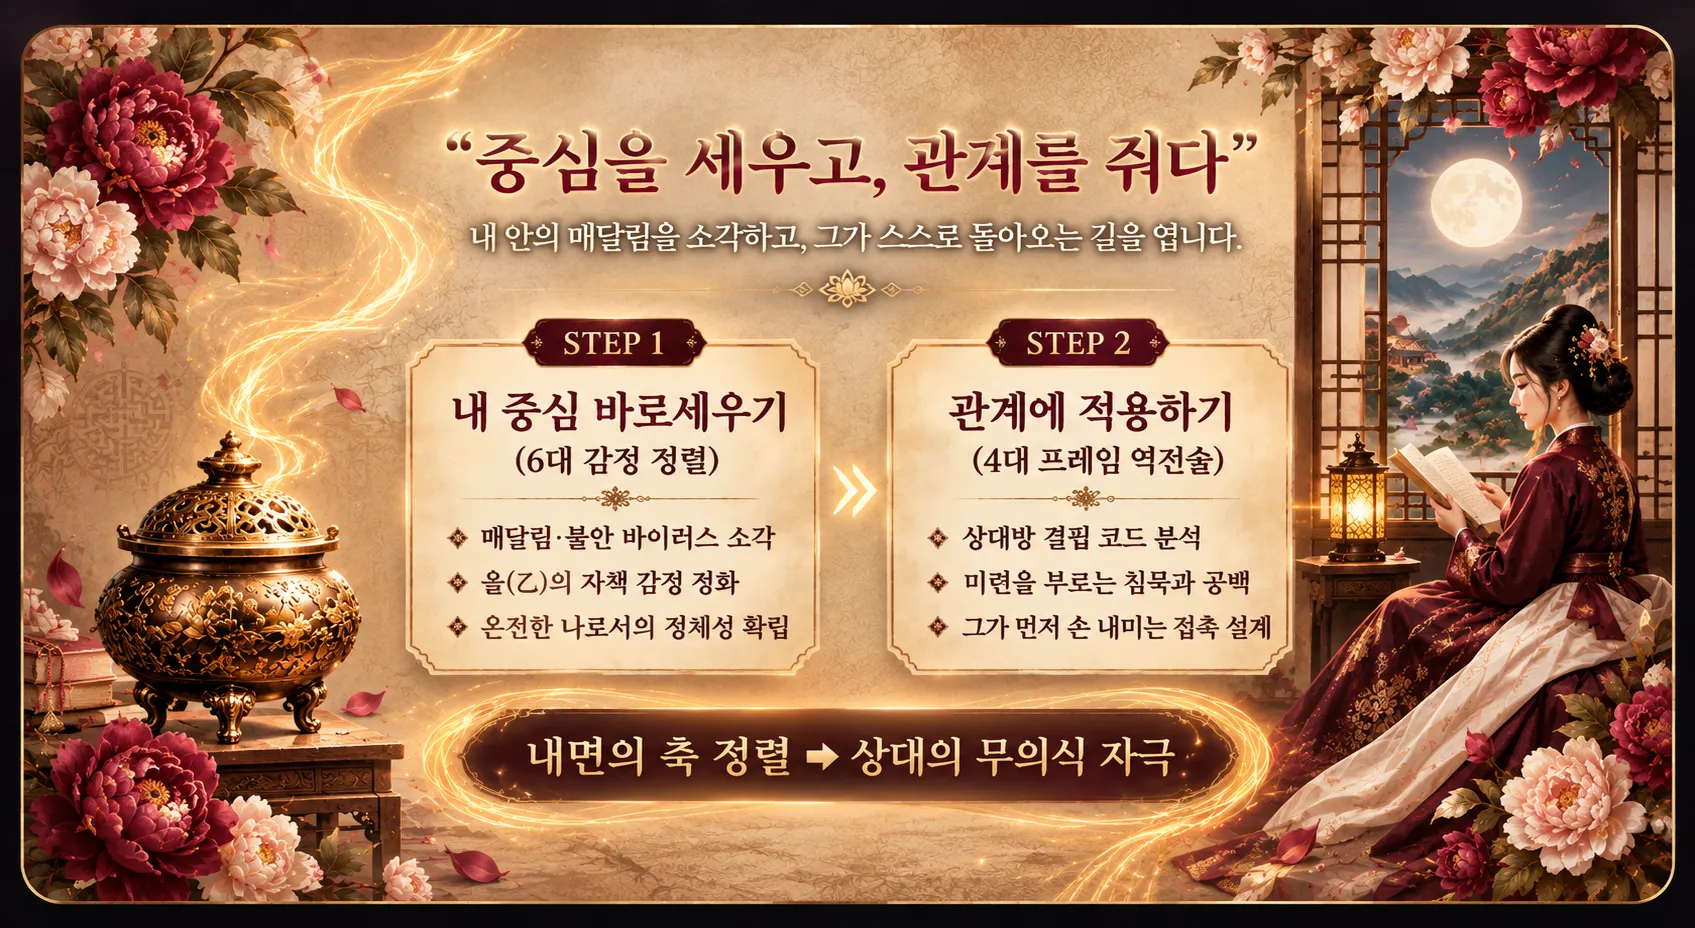
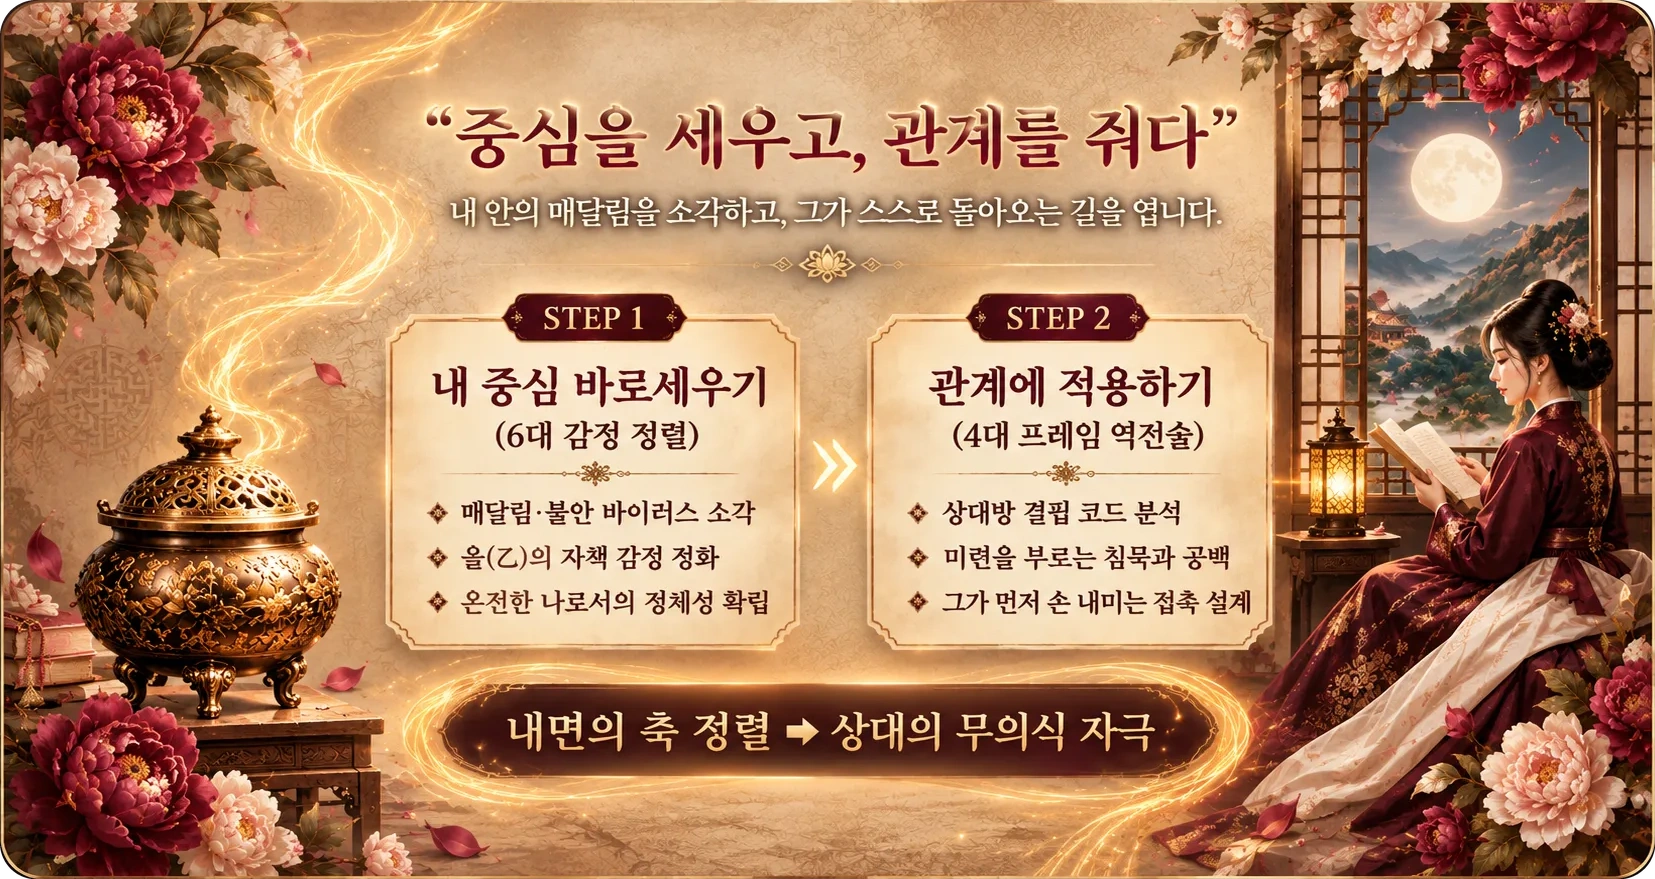
feat(reunion-secret): move inside book preview above package detail and set 3-column layout

diff --git a/app/reports/reunion-secret/page.tsx b/app/reports/reunion-secret/page.tsx
@@ -65,7 +65,7 @@ const productData = {
   ctaImage: '/image/reunion-secret/return-secret-cta-bg.webp?v=20261109_v2',
 
   // 💡 [커리큘럼 & 아키텍처] 16:9 와이드 인포그래픽 이미지 경로
-  curriculumImage: '/image/reunion-secret/reunion-secret-two-step-transformation.webp',
+  curriculumImage: '/image/reunion-secret/reunion-secret-two-step-transformation.webp?v=20261109_transparent',
   // 💡 [패키지 구성] 16:9 와이드 3종 책 목업 이미지 경로
   packageImage: '/image/reunion-secret/reunion-package-3books.webp',
   // 💡 [신규 영역 1] 관계 역전의 법칙 (16:9 인포그래픽 다이어그램 이미지 경로)
@@ -1729,13 +1729,13 @@ export default function ReunionSecretPage() {
                     </p>
                   </div>
 
-                  {/* 16:9 와이드 인포그래픽 이미지 영역 (뒤의 네모 상자/테두리/그림자 삭제, 이미지만 단독 노출) */}
+                  {/* 16:9 와이드 인포그래픽 이미지 영역 (바깥 검은 사각 배경을 완전 투명화하여 카드만 단독 노출) */}
                   <div className="mt-8 md:mt-10 relative w-full">
                     <Image
-                      src="/image/reunion-secret/reunion-secret-two-step-transformation.webp"
+                      src="/image/reunion-secret/reunion-secret-two-step-transformation.webp?v=20261109_transparent"
                       alt="재회를 운에 맡기지 마십시오. 《재회비방》이 안내하는 무의식 재회 설계도"
-                      width={1695}
-                      height={928}
+                      width={1655}
+                      height={879}
                       sizes="(max-width: 1280px) 100vw, 1280px"
                       className="w-full h-auto object-contain block"
                       priority
@@ -1992,28 +1992,11 @@ export default function ReunionSecretPage() {
                   </div>
                 </div>
 
-                {/* 3종 올인원 세트 상세 해부 서브헤더 (풍요비책 레이아웃과 100% 동일) */}
-                <div className="text-center max-w-3xl mx-auto mb-14 md:mb-16 pt-16 md:pt-20 lg:pt-24 break-keep">
-                  <span className="text-[#C2A477] font-elegant text-[12pt] font-semibold tracking-[0.2em] uppercase block mb-3">
-                    3-in-1 All-in-One Package
-                  </span>
-                  <h2 className="text-2xl md:text-[36px] font-elegant font-bold text-white tracking-wide leading-[1.35] mb-3">
-                    3종 올인원 세트 <span className="text-[#C2A477]">상세 해부</span>
-                  </h2>
-                  <div className="space-y-1.5">
-                    <p className="text-[17px] md:text-[18px] text-[#EDE6DA]/85 font-normal leading-[1.5]">
-                      본편부터 실전 워크북 1, 실전 워크북 2 까지
-                    </p>
-                    <p className="text-[18px] md:text-[20px] text-[#C2A477] font-bold font-elegant tracking-wide leading-[1.5]">
-                      3종 · 총 189페이지 PDF 패키지
-                    </p>
-                  </div>
-                </div>
-
                 {/* ─────────────────────────────────────────────────────────
-                    [신규 섹션] INSIDE THE SECRET BOOK: 책 속에서 만날 내용 (미리보기 이미지 3종 세로 1열 갤러리)
+                    [신규 섹션] INSIDE THE SECRET BOOK: 책 속에서 만날 내용
+                    (3종 올인원 세트 상세 해부 위로 이동, 데스크톱 가로 3열 나란히 배치)
                    ───────────────────────────────────────────────────────── */}
-                <div className="mt-14 md:mt-18 mb-16 md:mb-20">
+                <div className="pt-16 md:pt-20 lg:pt-24 mb-14 md:mb-18">
                   {/* 섹션 제목 및 부제 */}
                   <div className="text-center max-w-3xl mx-auto mb-10 md:mb-14 break-keep px-4">
                     <span className="text-[#C2A477] font-elegant text-xs md:text-sm tracking-[0.2em] uppercase block mb-2.5 md:mb-3 font-semibold">
@@ -2027,49 +2010,61 @@ export default function ReunionSecretPage() {
                     </p>
                   </div>
 
-                  {/* 세로 1열 독립 카드 배치 (데스크톱 440~500px, 모바일 화면 92%, 카드 간격 28~44px) */}
-                  <div className="flex flex-col gap-7 md:gap-11 items-center justify-center w-full px-4">
+                  {/* 가로 3열 이미지 카드 그리드 (데스크톱 한 줄 3열, 모바일 세로 1열) */}
+                  <div className="grid grid-cols-1 md:grid-cols-3 gap-6 md:gap-7 lg:gap-8 items-start w-full max-w-[1240px] mx-auto px-4">
                     {/* 이미지 1 — 진단·기준·조언 */}
-                    <Reveal>
-                      <div className="w-[92%] sm:w-full max-w-[480px] mx-auto rounded-2xl md:rounded-[20px] overflow-hidden border border-[#B49A70]/30 shadow-[0_12px_40px_rgba(0,0,0,0.35)] bg-black/40 hover:-translate-y-1 transition-all duration-300">
-                        <Image
-                          src={productData.bookPreviewGuideImage}
-                          alt="책 속에서 만날 내용 - 진단·기준·조언"
-                          width={440}
-                          height={661}
-                          className="w-full h-auto object-contain block"
-                          sizes="(max-width: 640px) 92vw, 480px"
-                        />
-                      </div>
-                    </Reveal>
+                    <div className="w-full rounded-2xl md:rounded-[20px] overflow-hidden border border-[#B49A70]/30 shadow-[0_10px_30px_rgba(0,0,0,0.35)] bg-black/40 hover:-translate-y-1 transition-all duration-300">
+                      <Image
+                        src={productData.bookPreviewGuideImage}
+                        alt="책 속에서 만날 내용 - 진단·기준·조언"
+                        width={440}
+                        height={661}
+                        className="w-full h-auto object-contain block"
+                        sizes="(max-width: 768px) 100vw, 33vw"
+                      />
+                    </div>
 
                     {/* 이미지 2 — 여섯 가지 실전 도구 */}
-                    <Reveal>
-                      <div className="w-[92%] sm:w-full max-w-[480px] mx-auto rounded-2xl md:rounded-[20px] overflow-hidden border border-[#B49A70]/30 shadow-[0_12px_40px_rgba(0,0,0,0.35)] bg-black/40 hover:-translate-y-1 transition-all duration-300">
-                        <Image
-                          src={productData.bookPreviewToolsImage}
-                          alt="막막한 순간에 펼쳐 볼 여섯 가지 도구 - 6가지 실전 자료"
-                          width={440}
-                          height={656}
-                          className="w-full h-auto object-contain block"
-                          sizes="(max-width: 640px) 92vw, 480px"
-                        />
-                      </div>
-                    </Reveal>
+                    <div className="w-full rounded-2xl md:rounded-[20px] overflow-hidden border border-[#B49A70]/30 shadow-[0_10px_30px_rgba(0,0,0,0.35)] bg-black/40 hover:-translate-y-1 transition-all duration-300">
+                      <Image
+                        src={productData.bookPreviewToolsImage}
+                        alt="막막한 순간에 펼쳐 볼 여섯 가지 도구 - 6가지 실전 자료"
+                        width={440}
+                        height={656}
+                        className="w-full h-auto object-contain block"
+                        sizes="(max-width: 768px) 100vw, 33vw"
+                      />
+                    </div>
 
                     {/* 이미지 3 — 재회의 5단계 여정 */}
-                    <Reveal>
-                      <div className="w-[92%] sm:w-full max-w-[480px] mx-auto rounded-2xl md:rounded-[20px] overflow-hidden border border-[#B49A70]/30 shadow-[0_12px_40px_rgba(0,0,0,0.35)] bg-black/40 hover:-translate-y-1 transition-all duration-300">
-                        <Image
-                          src={productData.bookPreviewJourneyImage}
-                          alt="다시 만나는 일만큼, 나를 잃지 않는 일 - 파동의 진단부터 완성된 나까지 다섯 단계"
-                          width={440}
-                          height={658}
-                          className="w-full h-auto object-contain block"
-                          sizes="(max-width: 640px) 92vw, 480px"
-                        />
-                      </div>
-                    </Reveal>
+                    <div className="w-full rounded-2xl md:rounded-[20px] overflow-hidden border border-[#B49A70]/30 shadow-[0_10px_30px_rgba(0,0,0,0.35)] bg-black/40 hover:-translate-y-1 transition-all duration-300">
+                      <Image
+                        src={productData.bookPreviewJourneyImage}
+                        alt="다시 만나는 일만큼, 나를 잃지 않는 일 - 파동의 진단부터 완성된 나까지 다섯 단계"
+                        width={440}
+                        height={658}
+                        className="w-full h-auto object-contain block"
+                        sizes="(max-width: 768px) 100vw, 33vw"
+                      />
+                    </div>
+                  </div>
+                </div>
+
+                {/* 3종 올인원 세트 상세 해부 서브헤더 (책 속에서 만날 내용 섹션 아래로 배치) */}
+                <div className="text-center max-w-3xl mx-auto mb-14 md:mb-16 pt-12 md:pt-16 lg:pt-20 break-keep">
+                  <span className="text-[#C2A477] font-elegant text-[12pt] font-semibold tracking-[0.2em] uppercase block mb-3">
+                    3-in-1 All-in-One Package
+                  </span>
+                  <h2 className="text-2xl md:text-[36px] font-elegant font-bold text-white tracking-wide leading-[1.35] mb-3">
+                    3종 올인원 세트 <span className="text-[#C2A477]">상세 해부</span>
+                  </h2>
+                  <div className="space-y-1.5">
+                    <p className="text-[17px] md:text-[18px] text-[#EDE6DA]/85 font-normal leading-[1.5]">
+                      본편부터 실전 워크북 1, 실전 워크북 2 까지
+                    </p>
+                    <p className="text-[18px] md:text-[20px] text-[#C2A477] font-bold font-elegant tracking-wide leading-[1.5]">
+                      3종 · 총 189페이지 PDF 패키지
+                    </p>
                   </div>
                 </div>
               </Reveal>
